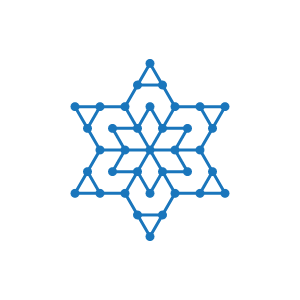
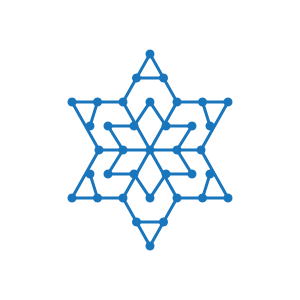
auto deploy kuqilin/hugo-build@e6592d0151bdcec0634ea7e474bbb3080aa46dd7

Changed region(s): [[0.21, 0.15, 0.78, 0.84]]

diff --git a/index.html b/index.html
@@ -513,7 +513,7 @@
         post-cover right
       "
     ><img
-            data-src="https://t.alcy.cc/moe"
+            data-src="https://www.loliapi.com/acg/pc/"
             data-sizes="auto"
             alt="[转]满嘴烂梗的学生，正在“逼疯”深圳教师"
             class="lazyload"
@@ -557,7 +557,7 @@
         post-cover left
       "
     ><img
-            data-src="https://t.alcy.cc/pc"
+            data-src="https://v2.xxapi.cn/api/randomAcgPic?type=pc&amp;return=302"
             data-sizes="auto"
             alt="复刻 Telegram 的 AI 编辑器"
             class="lazyload"
@@ -601,7 +601,7 @@
         post-cover right
       "
     ><img
-            data-src="https://img.paulzzh.com/touhou/random"
+            data-src="https://t.alcy.cc/pc"
             data-sizes="auto"
             alt="剧透测试（短代码）"
             class="lazyload"
@@ -646,7 +646,7 @@
         post-cover left
       "
     ><img
-            data-src="https://t.alcy.cc/moe"
+            data-src="https://img.paulzzh.com/touhou/random"
             data-sizes="auto"
             alt="20260712"
             class="lazyload"

diff --git a/page/3/index.html b/page/3/index.html
@@ -469,7 +469,7 @@
         post-cover left
       "
     ><img
-            data-src="https://img.paulzzh.com/touhou/random"
+            data-src="https://imgapi.jinghuashang.cn/random"
             data-sizes="auto"
             alt="Python基本语法"
             class="lazyload"
@@ -513,7 +513,7 @@
         post-cover right
       "
     ><img
-            data-src="https://t.alcy.cc/moe"
+            data-src="https://www.loliapi.com/acg/pc/"
             data-sizes="auto"
             alt="栈、队列和双端队列的Python实现"
             class="lazyload"

diff --git a/post/my-gpg/index.html b/post/my-gpg/index.html
@@ -324,7 +324,7 @@
     aria-label="Article navigation"
     data-aos="fade-up"
   ><div class="article-nav-link-wrap left"><img
-              data-src="https://www.loliapi.com/acg/pc/"
+              data-src="https://t.alcy.cc/pc"
               data-sizes="auto"
               alt="Python基本语法"
               class="lazyload"
@@ -336,7 +336,7 @@
         <div class="article-nav-caption">前一篇</div>
         <h3 class="article-nav-title">Python基本语法</h3>
       </div><div class="article-nav-link-wrap right"><img
-              data-src="https://uapis.cn/api/v1/random/image?category=acg&amp;type=pc"
+              data-src="https://www.loliapi.com/acg/pc/"
               data-sizes="auto"
               alt="我去过的学校"
               class="lazyload"

diff --git a/post/spoilertest_shortcode/index.html b/post/spoilertest_shortcode/index.html
@@ -300,7 +300,7 @@
     aria-label="Article navigation"
     data-aos="fade-up"
   ><div class="article-nav-link-wrap left"><img
-              data-src="https://t.alcy.cc/ycy"
+              data-src="https://www.loliapi.com/acg/pc/"
               data-sizes="auto"
               alt="20260712"
               class="lazyload"
@@ -312,7 +312,7 @@
         <div class="article-nav-caption">前一篇</div>
         <h3 class="article-nav-title">20260712</h3>
       </div><div class="article-nav-link-wrap right"><img
-              data-src="https://imgapi.jinghuashang.cn/random"
+              data-src="https://t.alcy.cc/moez"
               data-sizes="auto"
               alt="复刻 Telegram 的 AI 编辑器"
               class="lazyload"

diff --git a/post/telegram-ai-editor-prompt/index.html b/post/telegram-ai-editor-prompt/index.html
@@ -428,7 +428,7 @@ Emoji（表情化）✨
     aria-label="Article navigation"
     data-aos="fade-up"
   ><div class="article-nav-link-wrap left"><img
-              data-src="https://img.paulzzh.com/touhou/random"
+              data-src="https://t.alcy.cc/moez"
               data-sizes="auto"
               alt="剧透测试（短代码）"
               class="lazyload"
@@ -440,7 +440,7 @@ Emoji（表情化）✨
         <div class="article-nav-caption">前一篇</div>
         <h3 class="article-nav-title">剧透测试（短代码）</h3>
       </div><div class="article-nav-link-wrap right"><img
-              data-src="https://t.alcy.cc/moe"
+              data-src="https://www.loliapi.com/acg/pc/"
               data-sizes="auto"
               alt="[转]满嘴烂梗的学生，正在“逼疯”深圳教师"
               class="lazyload"

diff --git a/page/2/index.html b/page/2/index.html
@@ -557,7 +557,7 @@
         post-cover left
       "
     ><img
-            data-src="https://uapis.cn/api/v1/random/image?category=acg&amp;type=pc"
+            data-src="https://v2.xxapi.cn/api/randomAcgPic?type=pc&amp;return=302"
             data-sizes="auto"
             alt="20260517"
             class="lazyload"

diff --git a/post/20260517/index.html b/post/20260517/index.html
@@ -329,7 +329,7 @@
     aria-label="Article navigation"
     data-aos="fade-up"
   ><div class="article-nav-link-wrap left"><img
-              data-src="https://t.alcy.cc/pc"
+              data-src="https://t.alcy.cc/moez"
               data-sizes="auto"
               alt="我去过的学校"
               class="lazyload"

diff --git a/post/fulltest/index.html b/post/fulltest/index.html
@@ -1263,7 +1263,7 @@ $$<h3 id="55-超长行内公式测试">
     aria-label="Article navigation"
     data-aos="fade-up"
   ><div class="article-nav-link-wrap left"><img
-              data-src="https://imgapi.jinghuashang.cn/random"
+              data-src="https://t.alcy.cc/moez"
               data-sizes="auto"
               alt="[转]满嘴烂梗的学生，正在“逼疯”深圳教师"
               class="lazyload"

diff --git a/post/hello/index.html b/post/hello/index.html
@@ -302,7 +302,7 @@
     aria-label="Article navigation"
     data-aos="fade-up"
   ><div class="article-nav-link-wrap left"><img
-              data-src="https://uapis.cn/api/v1/random/image?category=acg&amp;type=pc"
+              data-src="https://t.alcy.cc/pc"
               data-sizes="auto"
               alt="20260517"
               class="lazyload"

diff --git a/post/hugo/index.html b/post/hugo/index.html
@@ -671,7 +671,7 @@ Linux
         <div class="article-nav-caption">前一篇</div>
         <h3 class="article-nav-title">Hello World</h3>
       </div><div class="article-nav-link-wrap right"><img
-              data-src="https://t.alcy.cc/ycy"
+              data-src="https://v2.xxapi.cn/api/randomAcgPic?type=pc&amp;return=302"
               data-sizes="auto"
               alt="20260712"
               class="lazyload"

diff --git a/post/man-zui-lan-geng-de-xue-sheng/index.html b/post/man-zui-lan-geng-de-xue-sheng/index.html
@@ -422,7 +422,7 @@
     aria-label="Article navigation"
     data-aos="fade-up"
   ><div class="article-nav-link-wrap left"><img
-              data-src="https://img.paulzzh.com/touhou/random"
+              data-src="https://uapis.cn/api/v1/random/image?category=acg&amp;type=pc"
               data-sizes="auto"
               alt="复刻 Telegram 的 AI 编辑器"
               class="lazyload"

diff --git a/post/markdown-grammar/index.html b/post/markdown-grammar/index.html
@@ -655,7 +655,7 @@ $$ x = \frac{-b \pm \sqrt{b^2 - 4ac}}{2a} $$<div class="footnotes" role="doc-end
         <div class="article-nav-caption">前一篇</div>
         <h3 class="article-nav-title">2026年记</h3>
       </div><div class="article-nav-link-wrap right"><img
-              data-src="https://t.alcy.cc/ycy"
+              data-src="https://uapis.cn/api/v1/random/image?category=acg&amp;type=pc"
               data-sizes="auto"
               alt="栈、队列和双端队列的Python实现"
               class="lazyload"